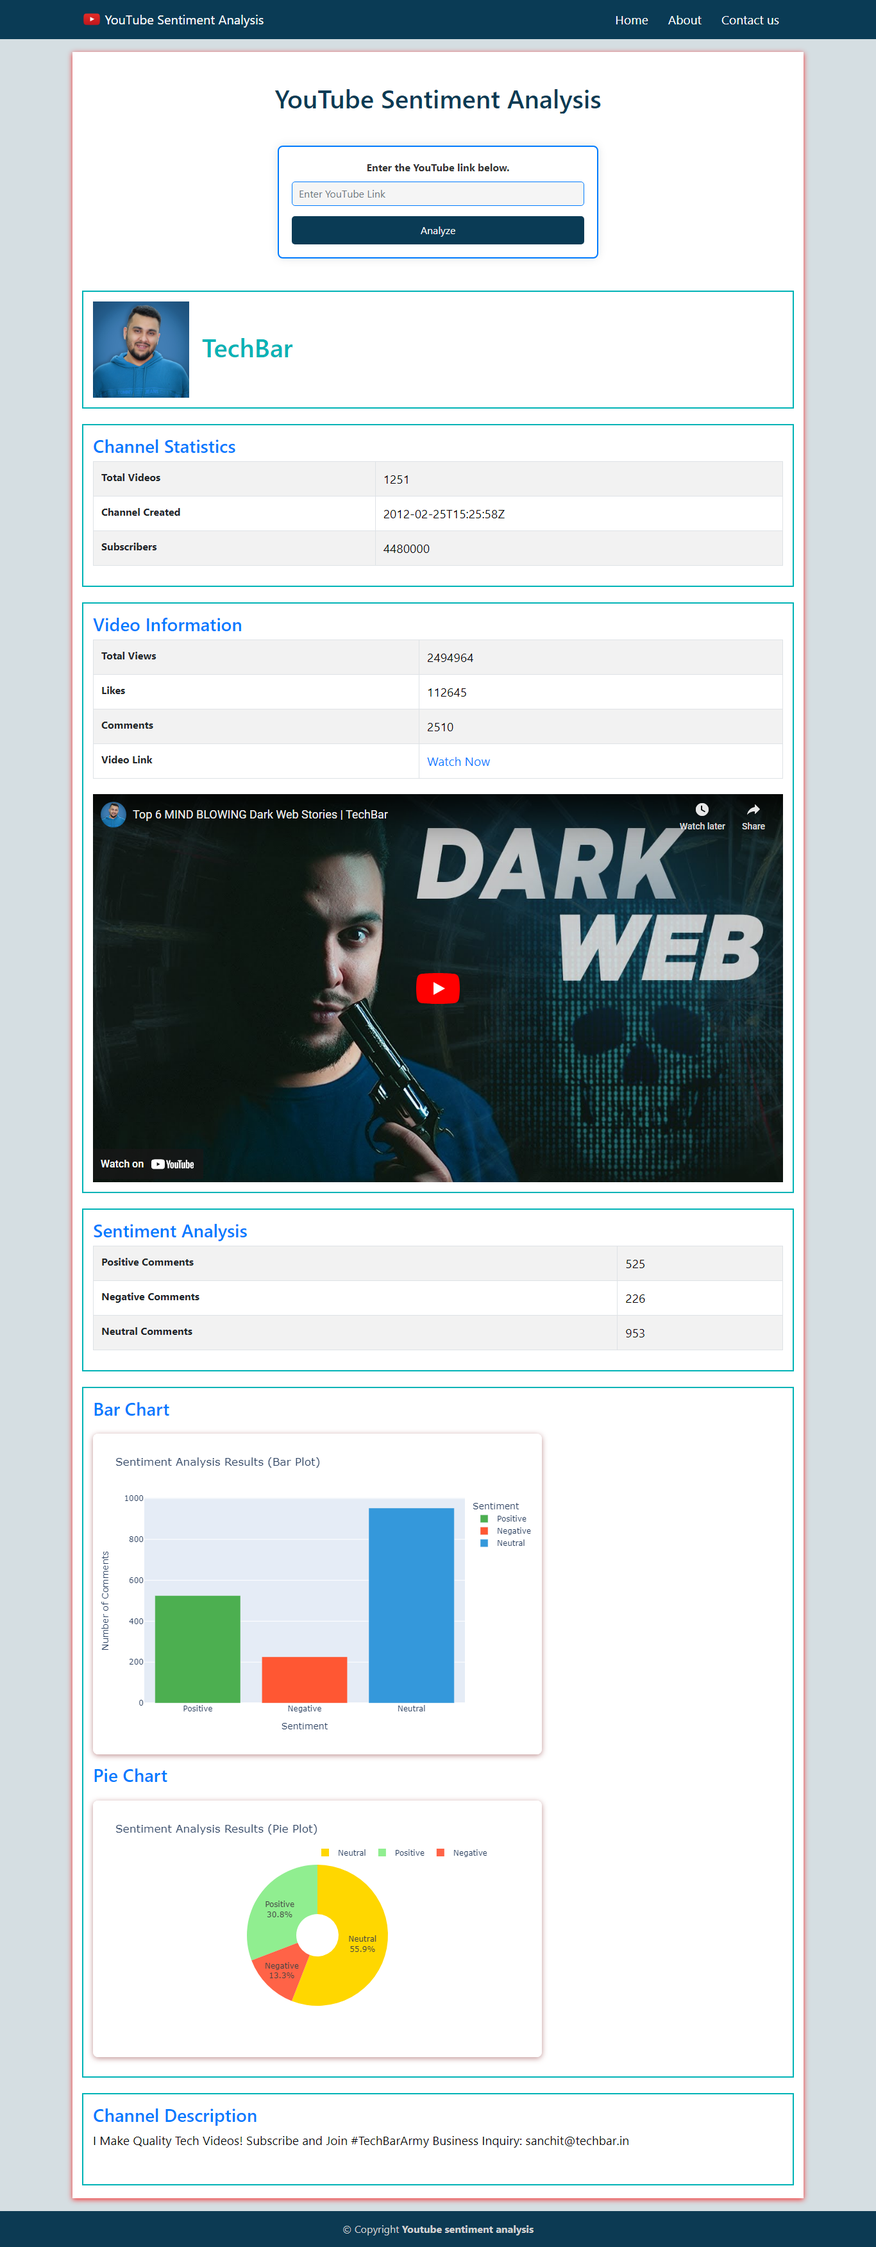
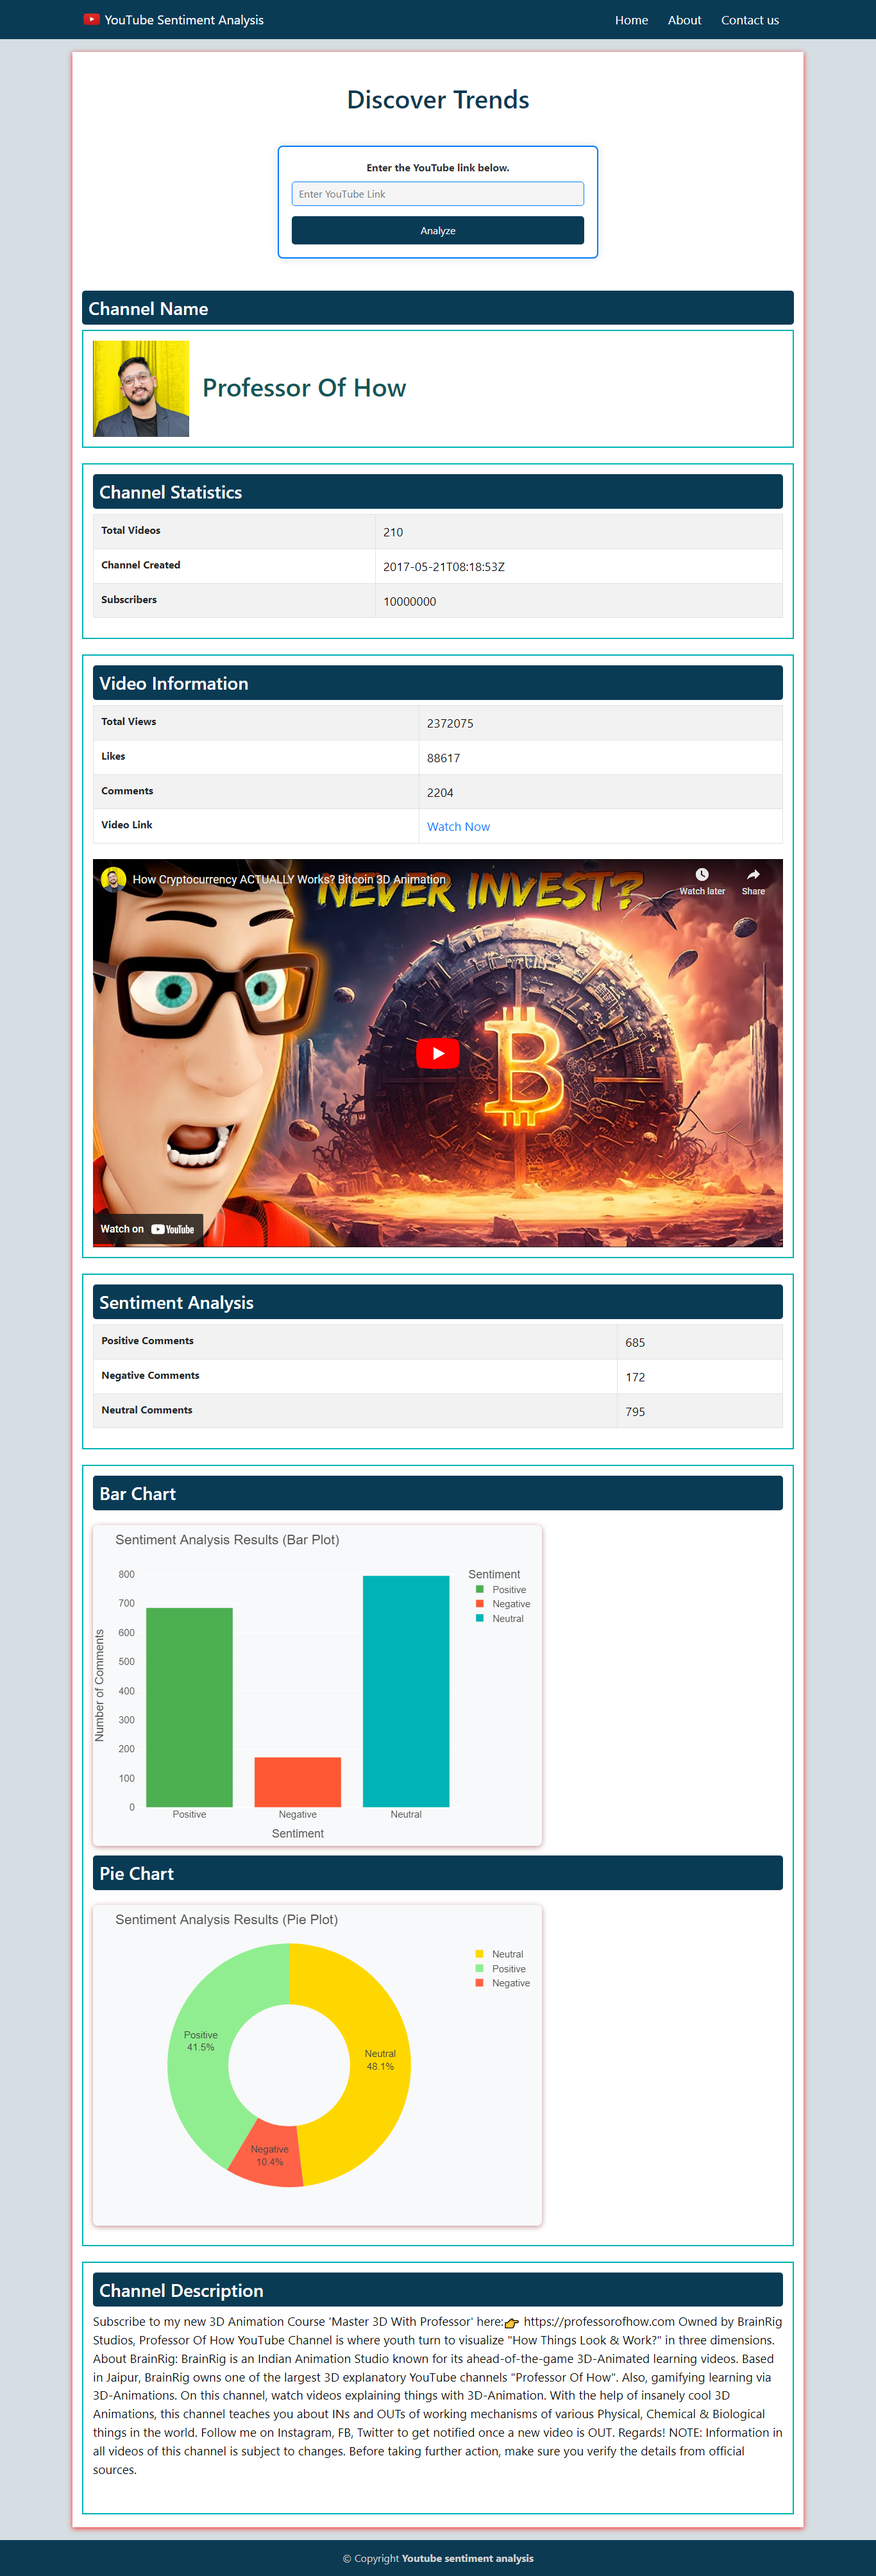
frontend

diff --git a/static/css/styles.css b/static/css/styles.css
@@ -100,12 +100,27 @@ main {
 
 
 /* Heading Styles */
+/* Heading Styles */
 h3 {
-    color: #007bff;
+    color: white;
+    font-weight: bold;
+    background-color: #0A3B55;
+    padding: 10px;
+    border-radius: 5px;
+    transition: background-color 0.3s;
+}
+
+h3:hover {
+    background-color: #125758;
 }
 
 #title {
-    color: #00B3B6;
+    color: #125758;
+    transition: color 0.3s;
+}
+
+#title:hover {
+    color: #007BFF;
 }
 
 /* Channel Info Styles */
@@ -115,6 +130,7 @@ h3 {
     margin-bottom: 20px;
     border: 2px solid #00B3B6;
     padding: 15px;
+    border: 0 0 2px 2px solid ;
 }
 
 /* Channel Stats Styles */

diff --git a/templates/index.html b/templates/index.html
@@ -54,10 +54,11 @@
         </form>
 
         {% if channel_info %}
+        <h3 id='channel-name'>Channel Name</h3>
         <div class="channel-info">
             <img src="{{ channel_info.channel_logo_url }}" alt="Channel Logo" class="channel-logo">
             <div class="channel-details">
-                <h1 id='title'>{{ channel_info.channel_title }}</h1>
+                <h1 id='title'>{{ channel_info.channel_title }}</h1>   
             </div>
         </div>
 

diff --git a/Senti.py b/Senti.py
@@ -58,9 +58,17 @@ def generate_bar_chart(results):
         x='Sentiment',
         y='Number of Comments',
         color='Sentiment',
-        color_discrete_sequence=['#4CAF50', '#FF5733', '#3498DB'],  # Updated color scheme
-        title='Sentiment Analysis Results (Bar Plot)',
+        color_discrete_sequence=['#4CAF50', '#FF5733', '#00B3B6'],  # Updated color scheme
         labels={'Number of Comments': 'Number of Comments'},
+    )
+
+    # Improve the bar chart design
+    fig.update_layout(
+        title='Sentiment Analysis Results (Bar Plot)',
+        margin=dict(t=60, r=20, b=60, l=40),
+        font=dict(family='Arial', size=15, color='#505050'),
+        plot_bgcolor='#f8f9fa',
+        paper_bgcolor='#f8f9fa',
     )
 
     return save_chart_image(fig)
@@ -77,14 +85,16 @@ def generate_pie_chart(results):
         labels=labels,
         values=values,
         textinfo='label+percent',
-        marker=dict(colors=['#FFD700', '#90EE90', '#FF6347']),  # Updated color scheme
-        hole=0.3,  # Add a hole in the middle for better aesthetics
+        marker=dict(colors=['#FFD700', '#90EE90', '#FF6347']),  
+        hole=0.5, 
     )])
 
     fig.update_layout(
         title='Sentiment Analysis Results (Pie Plot)',
-        legend=dict(orientation='h', yanchor='bottom', y=1.02, xanchor='right', x=1),
-        height=400  # Adjust the height as needed
+        margin=dict(t=60, r=20, b=60, l=40),
+        font=dict(family='Arial', size=15, color='#505050'),
+        plot_bgcolor='#f8f9fa',
+        paper_bgcolor='#f8f9fa',
     )
 
     return save_chart_image(fig)
